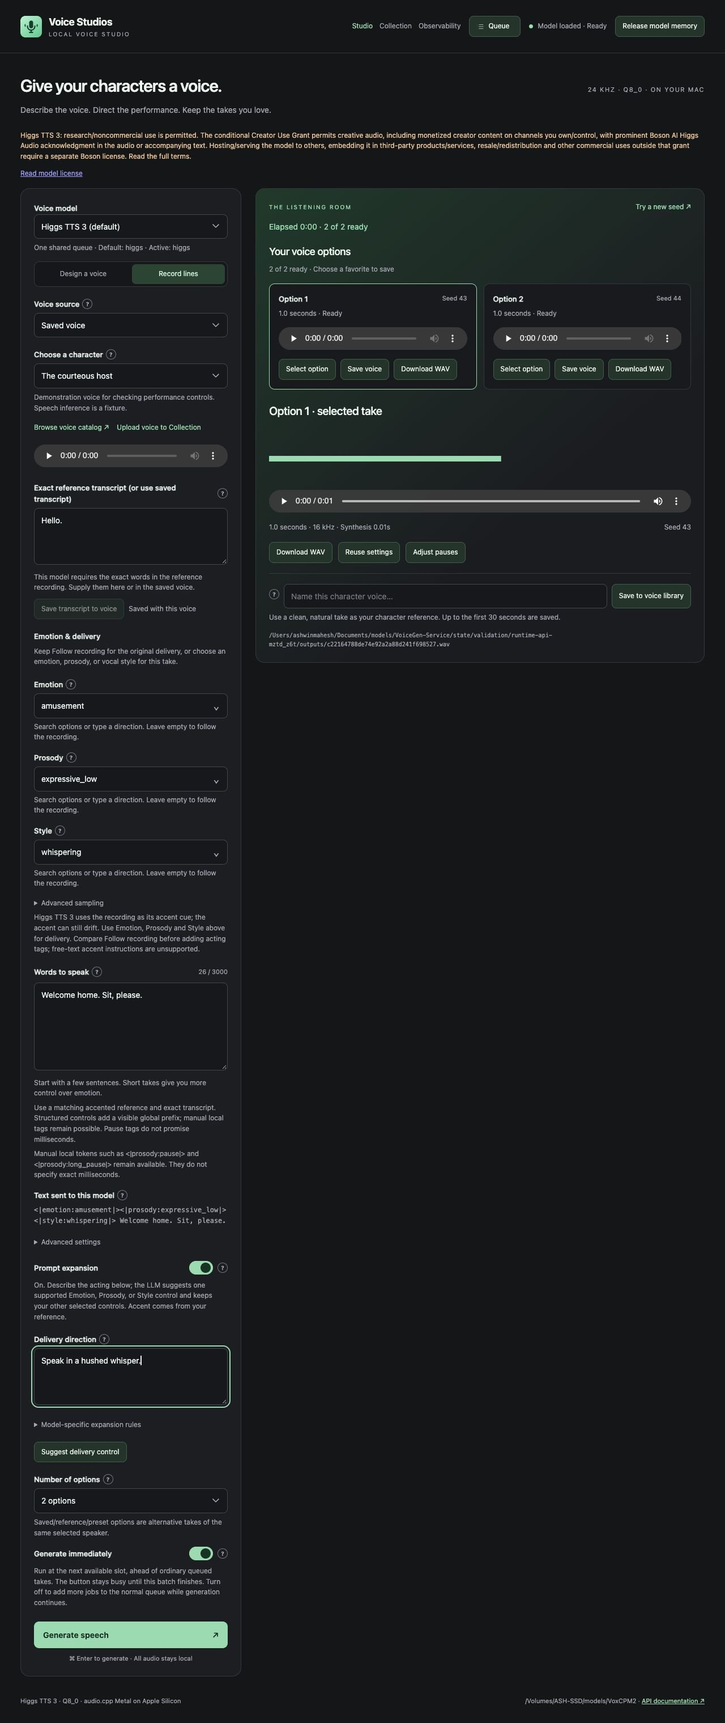
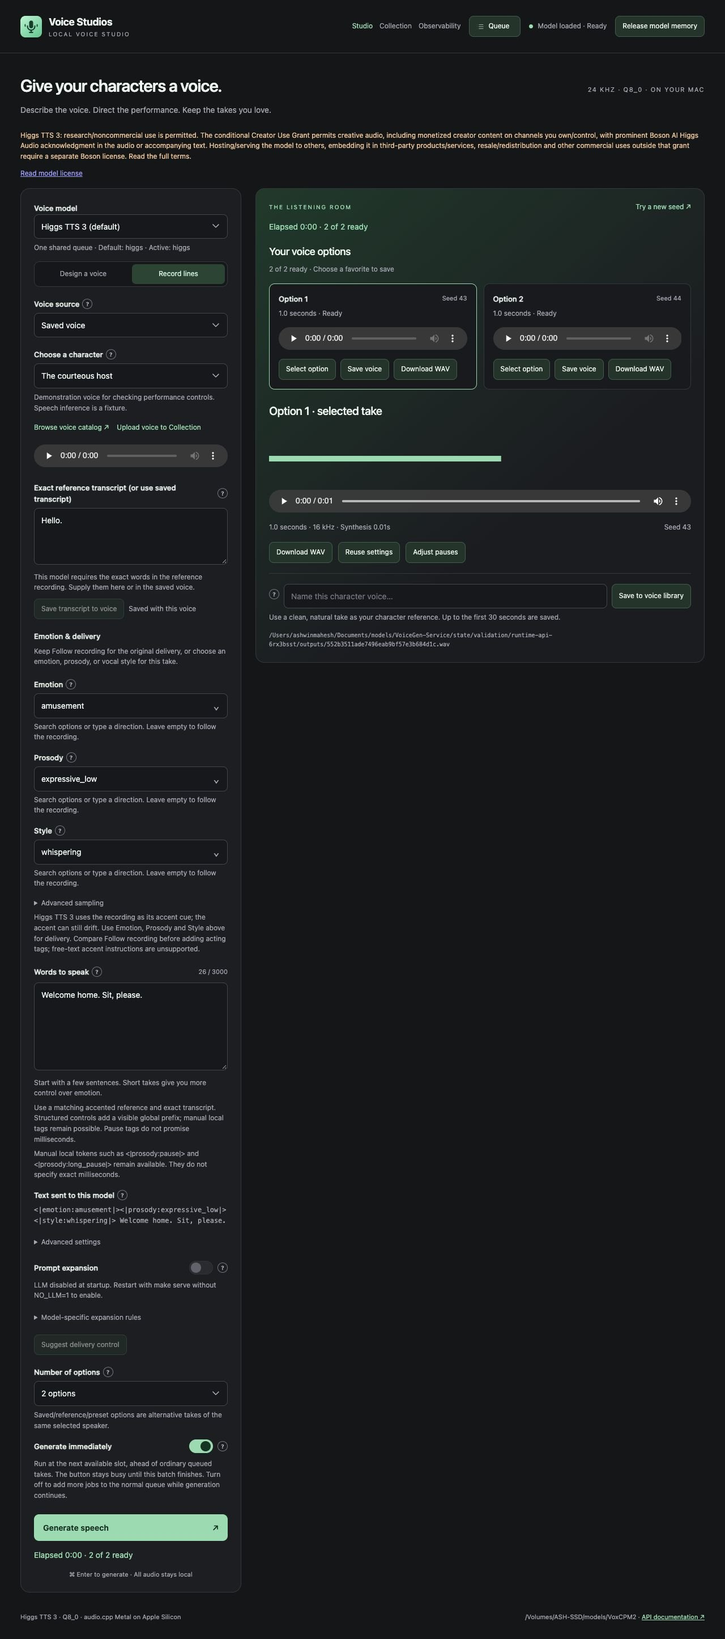
Keep elapsed generation time visible and attached to the selected recording

Changed region(s): [[0.0312, 0.0, 0.9688, 0.9651], [0.875, 0.0, 0.9688, 0.0311], [0.6562, 0.0, 0.6875, 0.0311]]

diff --git a/ui/index.html b/ui/index.html
@@ -123,8 +123,8 @@ input:disabled::placeholder,textarea:disabled::placeholder{color:#aeb5c0;opacity
 <div class="field"><label for="candidate-count">Number of options</label><select id="candidate-count"><option value="1">1 option</option><option value="2" selected>2 options</option><option value="3">3 options</option><option value="4">4 options</option><option value="5">5 options</option></select><p class="hint" id="candidate-count-hint">Design distinct voices, compare, and save your favorite. Options generate one at a time.</p></div>
 <div class="field" id="candidate-variation-field"><label for="candidate-variation">Batch variation</label><select id="candidate-variation"><option value="auto">Distinct voice designs</option><option value="seed_only">Same prompt · different seeds</option></select><p class="hint" id="candidate-variation-hint"></p></div>
 <label class="expansion-switch immediate-switch" for="generate-immediately"><span>Generate immediately</span><input id="generate-immediately" type="checkbox" role="switch" checked aria-describedby="immediate-hint"></label><p class="hint" id="immediate-hint">Run at the next available slot, ahead of ordinary queued takes. The button stays busy until this batch finishes. Turn off to add more jobs to the normal queue while generation continues.</p>
-<button class="primary" id="generate" type="submit" aria-busy="false"><span id="generate-label">Generate speech</span><span id="generate-icon" aria-hidden="true">↗</span></button><p class="shortcut">⌘ Enter to generate · All audio stays local</p><p class="error" id="error" role="alert" hidden></p>
-</form><div><section class="panel output" aria-label="Generated audio"><div class="output-top"><span class="eyebrow">The listening room</span><button type="button" class="plain" id="new-seed">Try a new seed ↗</button></div><p id="elapsed" class="generation-elapsed" hidden></p><section id="candidate-results" hidden aria-labelledby="candidate-title"><h2 id="candidate-title">Your voice options</h2><p id="candidate-summary" class="hint" role="status"></p><div id="candidate-cards" class="candidate-grid"></div></section><div class="empty" id="empty"><div class="symbol" aria-hidden="true">▂▅▃▇▂▆▃</div><h2>Your next voice starts here.</h2><p>Generate a take, listen to the performance, then save the voice for your next scene.</p></div><div class="working" id="working" hidden><div class="spinner"></div><strong id="stage">Generating speech</strong><p>The first take also loads the model from the SSD.</p><a id="working-job-resources" href="/observability">View job charts &amp; logs ↗</a></div><div id="result" hidden><h2 id="result-title">Your latest take</h2><p class="hint" id="direction-summary" hidden></p><details id="result-expansion-details" class="expansion-details" hidden><summary>Expanded prompt for this take</summary><div class="expansion-content"></div></details><canvas id="waveform" aria-label="Waveform of generated speech" role="img"></canvas><audio id="player" controls preload="metadata"></audio><div class="result-meta"><span id="metrics"></span><span id="result-seed"></span></div><p class="notice" id="truncated" hidden>The audio reached its length limit. Try a shorter passage or raise the audio limit.</p><div class="result-tools"><a id="download" class="secondary" download>Download WAV</a><button type="button" class="secondary" id="reuse">Reuse settings</button><button type="button" class="secondary" id="adjust-pauses">Adjust pauses</button></div><div class="save-row"><label for="voice-name" class="sr-only">Name this voice</label><input id="voice-name" maxlength="100" placeholder="Name this character voice…"><button type="button" class="secondary" id="save-voice">Save to voice library</button></div><p class="hint" id="save-hint">Use a clean, natural take as your character reference. Up to the first 30 seconds are saved.</p><p id="path" class="path"></p></div></section></div></div>
+<button class="primary" id="generate" type="submit" aria-busy="false"><span id="generate-label">Generate speech</span><span id="generate-icon" aria-hidden="true">↗</span></button><p id="submission-elapsed" class="generation-elapsed" data-generation-elapsed role="timer" aria-live="off" hidden></p><p class="shortcut">⌘ Enter to generate · All audio stays local</p><p class="error" id="error" role="alert" hidden></p>
+</form><div><section class="panel output" aria-label="Generated audio"><div class="output-top"><span class="eyebrow">The listening room</span><button type="button" class="plain" id="new-seed">Try a new seed ↗</button></div><p id="elapsed" class="generation-elapsed" data-generation-elapsed role="timer" aria-live="off" hidden></p><section id="candidate-results" hidden aria-labelledby="candidate-title"><h2 id="candidate-title">Your voice options</h2><p id="candidate-summary" class="hint" role="status"></p><div id="candidate-cards" class="candidate-grid"></div></section><div class="empty" id="empty"><div class="symbol" aria-hidden="true">▂▅▃▇▂▆▃</div><h2>Your next voice starts here.</h2><p>Generate a take, listen to the performance, then save the voice for your next scene.</p></div><div class="working" id="working" hidden><div class="spinner"></div><strong id="stage">Generating speech</strong><p>The first take also loads the model from the SSD.</p><a id="working-job-resources" href="/observability">View job charts &amp; logs ↗</a></div><div id="result" hidden><h2 id="result-title">Your latest take</h2><p class="hint" id="direction-summary" hidden></p><details id="result-expansion-details" class="expansion-details" hidden><summary>Expanded prompt for this take</summary><div class="expansion-content"></div></details><canvas id="waveform" aria-label="Waveform of generated speech" role="img"></canvas><audio id="player" controls preload="metadata"></audio><div class="result-meta"><span id="metrics"></span><span id="result-seed"></span></div><p class="notice" id="truncated" hidden>The audio reached its length limit. Try a shorter passage or raise the audio limit.</p><div class="result-tools"><a id="download" class="secondary" download>Download WAV</a><button type="button" class="secondary" id="reuse">Reuse settings</button><button type="button" class="secondary" id="adjust-pauses">Adjust pauses</button></div><div class="save-row"><label for="voice-name" class="sr-only">Name this voice</label><input id="voice-name" maxlength="100" placeholder="Name this character voice…"><button type="button" class="secondary" id="save-voice">Save to voice library</button></div><p class="hint" id="save-hint">Use a clean, natural take as your character reference. Up to the first 30 seconds are saved.</p><p id="path" class="path"></p></div></section></div></div>
 <section class="panel library" id="voice-catalog"><div class="section-top collection-toolbar"><div class="collection-heading"><h2>Your collection</h2><div class="tabs" role="tablist" aria-label="Collection"><button type="button" role="tab" data-collection="voices" aria-selected="true">Voice library</button><button type="button" role="tab" data-collection="history" aria-selected="false">History</button></div></div><button type="button" class="primary collection-upload" id="upload-voice"><svg viewBox="0 0 24 24" fill="none" stroke="currentColor" stroke-width="1.8" stroke-linecap="round" stroke-linejoin="round" aria-hidden="true"><path d="M12 15V3m-4 4 4-4 4 4M4 14v5a2 2 0 0 0 2 2h12a2 2 0 0 0 2-2v-5"/></svg>Upload voice</button></div><label class="sr-only" for="search">Search your collection</label><input class="search" id="search" type="search" placeholder="Search voice names, descriptions, or tags…"><div class="collection-options"><label for="show-deleted"><input id="show-deleted" type="checkbox">Show deleted</label><p class="hint" id="deleted-collection-hint" hidden>Deleted items are kept on disk so existing jobs and recordings still work. Restore an item to return it to Collection.</p></div><div class="library-filters" id="voice-filters" hidden><div><label for="tag-filter">Filter by tag</label><select id="tag-filter"><option value="">All tags</option></select></div><div><label for="voice-sort">Sort voices</label><select id="voice-sort"><option value="newest">Newest first</option><option value="updated">Recently edited</option><option value="name">Name A–Z</option></select></div></div><div class="field" style="margin:0 0 12px"><label for="page-size">Results per page</label><select id="page-size"><option>12</option><option selected>24</option><option>48</option><option>100</option></select></div><p class="catalog-count" id="catalog-count" hidden></p><p class="voice-notice" id="voice-notice" role="status" hidden></p><div id="cards" class="cards"></div><div class="pagination" id="voice-pagination" hidden><button type="button" class="secondary" id="voice-prev">Previous</button><span class="tiny" id="voice-page-label"></span><button type="button" class="secondary" id="voice-next">Next</button></div><p class="hint" id="collection-empty">Your generated takes will appear here.</p></section></main>
 <dialog id="queue-dialog" class="voice-editor queue-dialog" aria-labelledby="queue-title"><div class="section-top"><h2 id="queue-title">Generation queue</h2><div class="dialog-actions" style="margin:0"><button type="button" class="secondary" id="queue-pause">Pause queue</button><button type="button" class="secondary" id="queue-clear">Clear pending</button><button type="button" class="secondary" id="close-queue" aria-label="Close queue">Close</button></div></div><p id="queue-service-dialog-notice" class="notice" role="status" hidden></p><p class="hint">One shared queue switches models between complete batches. Active generation is never interrupted; removing waiting jobs keeps completed audio and History.</p><div class="two"><div><label for="queue-status">Show</label><select id="queue-status"><option value="pending">Pending and running</option><option value="error">Failed</option><option value="done">Completed</option><option value="all">All entries</option></select></div><div><label for="queue-size">Entries per page</label><select id="queue-size"><option>12</option><option selected>24</option><option>100</option></select></div></div><p id="queue-count" class="hint" role="status"></p><p class="hint" id="queue-reorder-hint">Drag a handle or use its up/down arrow keys to reorder; Run Now runs first after active work finishes.</p><div id="queue-entries" class="cards"></div><div class="pagination"><button type="button" class="secondary" id="queue-prev">Previous</button><span id="queue-page" class="tiny"></span><button type="button" class="secondary" id="queue-next">Next</button></div><p class="error" id="queue-error" role="alert" hidden></p></dialog>
 <dialog id="expansion-preview" class="voice-editor" aria-labelledby="expansion-title"><h2 id="expansion-title">Expanded voice guidance</h2><p class="hint">Review the suggestion before applying. The LLM does not receive dialogue, transcripts or reference audio. Accent/identity and delivery still require listening.</p><h3 id="expansion-original-title">Original guidance</h3><pre id="expansion-original" class="hint" style="white-space:pre-wrap;overflow-wrap:anywhere"></pre><h3>Suggested guidance / controls</h3><pre id="expansion-updates" class="hint" style="white-space:pre-wrap;overflow-wrap:anywhere"></pre><p id="expansion-notice" class="hint" role="status" hidden></p><p id="expansion-model" class="hint"></p><div class="dialog-actions"><button type="button" class="secondary" id="cancel-expansion">Keep original</button><button type="button" class="primary" id="apply-expansion">Apply guidance</button></div></dialog>

diff --git a/ui/app.js b/ui/app.js
@@ -39,9 +39,11 @@ function clearExpansion(){appliedExpansion=null;pendingExpansion=null;updateProm
 let generationClock=null;
 function elapsedTime(milliseconds){const seconds=Math.max(0,Math.floor(milliseconds/1000)),minutes=Math.floor(seconds/60);return minutes>=60?`${Math.floor(minutes/60)}:${String(minutes%60).padStart(2,'0')}:${String(seconds%60).padStart(2,'0')}`:`${minutes}:${String(seconds%60).padStart(2,'0')}`}
 function updateElapsed(){
- const target=$('elapsed');target.hidden=!generationClock;if(!generationClock)return;
- target.textContent=`Elapsed ${elapsedTime((generationClock.end??Date.now())-generationClock.start)} · ${generationClock.label}`;
- target.title='Time since this request was accepted, including time waiting in the queue.';
+ for(const target of document.querySelectorAll('[data-generation-elapsed]')){
+  target.hidden=!generationClock;if(!generationClock)continue;
+  target.textContent=`Elapsed ${elapsedTime((generationClock.end??Date.now())-generationClock.start)} · ${generationClock.label}`;
+  target.title='Time since this request was accepted, including time waiting in the queue.';
+ }
 }
 function generationTiming(identity,created,label,completed=null){
  const timestamp=Date.parse(created),end=Date.parse(completed);
@@ -53,6 +55,7 @@ function batchTiming(batch){
  generationTiming(batch.id,batch.created_at,running?`${running.stage} · option ${running.candidate_index} of ${batch.candidate_count}`:finished?`${batch.done_count} of ${batch.candidate_count} ready`:'Waiting in queue',finished?(completed||new Date().toISOString()):null);
 }
 setInterval(updateElapsed,1000);
+document.addEventListener('visibilitychange',updateElapsed);window.addEventListener('focus',updateElapsed);
 function updatePromptExpansion(){
  if(!caps)return;
  const available=modelChoiceReady&&!!caps.limits.prompt_expansion?.enabled,enabled=available&&$('prompt-expansion-enabled').checked,backend=caps.backend;
@@ -583,7 +586,7 @@ async function watch(identity){
   monitoredImmediate=['queued','running'].includes(job.status)&&job.generate_immediately;controls();
   $('stage').textContent=job.stage;
   $('working-job-resources').href='/observability?job='+encodeURIComponent(identity);
-  generationTiming(identity,job.created_at,job.stage,job.completed_at);
+  generationTiming(identity,job.created_at,job.stage,!['queued','running'].includes(job.status)?job.completed_at||new Date().toISOString():null);
   if(job.status==='done'){localStorage.removeItem(storageKey+'-job');showResult(job.result);await refresh();announce('Speech ready');break}
   if(job.status==='error'||job.status==='deleted'){localStorage.removeItem(storageKey+'-job');throw Error(job.error||'This pending take was removed.');}
   await new Promise(resolve=>setTimeout(resolve,1500));
@@ -631,7 +634,7 @@ async function health(){
   $('status').dataset.offline=!online;
   $('status').textContent=state.status==='error'?(state.last_error||'Setup incomplete'):state.busy?state.status:state.model_loaded?'Model loaded · Ready':caps?.limits.model_residency==='per job subprocess'?'Ready · Loads per take':'Ready · Loads on first take';
   busy=state.busy;
-  if(queueWritable&&state.active_job&&!watching&&!browsePage&&!localStorage.getItem(storageKey+'-candidates'))watch(state.active_job);
+  if(queueWritable&&state.active_job&&!watching&&!generationClock&&!browsePage&&!localStorage.getItem(storageKey+'-candidates'))watch(state.active_job);
   if(queueWritable){
    try{await refreshQueue()}catch(exc){queueWritable=false;queueNotices({queue_storage:{status:'unavailable',message:exc.message}})}
   }else{

diff --git a/AGENTS.md b/AGENTS.md
@@ -57,7 +57,7 @@ Higgs's searchable comboboxes accept draft prose, but generation settings remain
 
 Generate immediately is a default-on accessible switch. While monitoring an immediate request/batch with that switch on, keep Generate disabled with a loading label and aria-busy until all options reach a terminal state; guard form/keyboard submission too. Infer the immutable request priority from returned jobs on reload. Turning the switch off permits additional normal queued submissions without mutating admitted jobs. Verify with held single/batch fixtures, failure/reload and normal-queue behavior, rather than only instant fake completions.
 
-Keep the elapsed timer visible for both batches and single-job monitoring; use persisted admission/completion times so reloads retain elapsed duration, including queue wait. Catalog refresh must preserve in-progress reference transcripts. Save transcript edits through voice PATCH before UI generation and offer an explicit save action; API ref_text overrides never mutate the voice. Auto-save a complete generated line as the voice transcript only when the actual recording is at most 30 seconds and not marked truncated. Vox Auto accepts editable directions, while combined/continuation do not. Higgs/Fish use their native delivery controls instead of disabled prose fields; never imply arbitrary accent text is supported. Disabled inputs use a lighter grey fill and an actionable reason.
+Keep synchronized elapsed timers below Generate and in the Listening room for both batches and single-job monitoring. Tick every second while active, refresh on focus/visibility return, and use persisted admission/completion times so reloads retain elapsed duration, including queue wait. Continue across batch options and freeze at terminal states, including removed legacy jobs without a completion timestamp. Health polling must not replace an existing recording's timer with another active job after completion; explicit Monitor/new submission may select another recording. Keep timer announcements off so screen readers are not interrupted every second. Verify rolling values with held fixtures and stable values after completion. Catalog refresh must preserve in-progress reference transcripts. Save transcript edits through voice PATCH before UI generation and offer an explicit save action; API ref_text overrides never mutate the voice. Auto-save a complete generated line as the voice transcript only when the actual recording is at most 30 seconds and not marked truncated. Vox Auto accepts editable directions, while combined/continuation do not. Higgs/Fish use their native delivery controls instead of disabled prose fields; never imply arbitrary accent text is supported. Disabled inputs use a lighter grey fill and an actionable reason.
 
 Higgs UI/recommended max_tokens is 2000, while the API default remains 1000 and explicit/frozen limits stay unchanged. Publish all three values in capabilities. Its namespaced text_chunk_size (80–1024, default 1024) maps to the native CLI; keep other backends unaffected. Omitted/null chunk settings must retain pre-field single/batch fingerprints. Missing EOC stays a failure: expose only the recognized diagnostic from a bounded log tail, remove temporary output, and never enable incomplete generation or auto-increase a budget. The failed-card higher-limit action prepares one new take for review; Retry preserves the frozen job.
 

diff --git a/QUICKSTART.md b/QUICKSTART.md
@@ -71,7 +71,7 @@ To create a new voice from a description, choose a set-up VoxCPM2, Qwen3-TTS, or
 4. **Choose the performance settings.** Higgs shows **Emotion**, **Prosody**, and **Style** above the dialogue. It takes its accent from the recording; free-text accent directions are unsupported. Vox Auto allows new text directions and switches to flexible conditioning when used. Enter an **Emotion & delivery** direction to enable its expansion preview. With no new directions and an exact transcript, Auto follows the recording instead. Combined and Continue performance keep direction fields disabled. Disabled fields have a lighter grey background, with the reason and a supported alternative in their helper text. Hover over a grey **?** icon for an explanation, focus it with the keyboard, or tap it on a phone. Expand **Advanced settings** for additional options.
 5. **Try prompt expansion if available.** With the switch on, select **Preview expanded guidance**, review it, and apply it or keep your original. Higgs instead offers **Suggest delivery control**: enter a short acting direction such as “quietly amused” or “more expressive intonation” to suggest one native Emotion, Prosody, or Style setting. The preview shows your written direction. If nothing changes, Apply is disabled and the preview explains how to proceed. For supported batches of different voice designs, the LLM can refine each option automatically.
 6. **Choose 1–5 options** and select **Generate speech**. The default is two. With Higgs or another recorded voice, these are alternative takes of the same speaker. Supported voice-design modes can explore different descriptions.
-7. **Listen and save.** The listening room shows elapsed time, including waiting, and keeps the completed duration after a reload. Download a take or choose **Save voice** to reuse it for more lines. Complete takes of at most 30 seconds automatically supply their spoken line as the saved transcript, without performance tags. Longer or potentially cut-off takes need the exact words in the saved excerpt.
+7. **Listen and save.** Elapsed time appears below Generate and in the Listening room. It ticks every second, including time waiting, continues through all options in a batch, and stops at the final duration. Reloads retain that timing. Download a take or choose **Save voice** to reuse it for more lines. Complete takes of at most 30 seconds automatically supply their spoken line as the saved transcript, without performance tags. Longer or potentially cut-off takes need the exact words in the saved excerpt.
 
 For Higgs, new UI settings use a **2,000-token Audio limit**. Existing saved settings keep their value; use **Advanced settings → Apply recommended defaults** to update them. If one option reports “reached max_tokens before EOC,” its audio did not finish. Keep the successful option and choose **Use higher audio limit** on the failed card to prepare one replacement. Retry alone keeps the old limit. For longer passages, a smaller **Higgs text chunk size**, such as 400 characters, can reduce the budget needed per chunk; it can also change delivery.
 

diff --git a/skill/local-voice-studio/SKILL.md b/skill/local-voice-studio/SKILL.md
@@ -39,7 +39,7 @@ Upload reference audio with `POST /api/references` (multipart file and optional 
 
 Collection opens Voice library first, with History to its right. The brand icon/title/subtitle link back to Studio. UI Delete requires a confirmation popup; Cancel/Escape keeps the entry. `DELETE /api/voices/{id}` or `/api/artifacts/{id}` removes it from the active collection; POST the same path plus `/restore` to restore. List deleted only with `deleted=true` on voices/history/voice-tags; the UI's Show deleted filter provides Restore. Responses contain id, kind (voices/outputs), deleted and changed; repeats return changed:false. Audio, metadata, job results and queued references stay intact. This is reversible catalog deletion, not disk cleanup or URL revocation. Separate private markers in the configured data folder persist the state; never purge them or audio as routine cleanup. The queue API has no collection lifecycle routes.
 
-The studio preserves transcript edits through refreshes and offers Save transcript to voice; Generate saves a saved voice's edited transcript before admission. API ref_text is only an override: PATCH the voice transcript to persist it. Saving a complete generated take up to 30 actual seconds defaults its transcript to the spoken line without Fish/Higgs tags. Longer or potentially cut-off takes need an exact excerpt transcript rather than the full line. The listening room shows elapsed admission-to-completion time, including waiting, across batches and reloads.
+The studio preserves transcript edits through refreshes and offers Save transcript to voice; Generate saves a saved voice's edited transcript before admission. API ref_text is only an override: PATCH the voice transcript to persist it. Saving a complete generated take up to 30 actual seconds defaults its transcript to the spoken line without Fish/Higgs tags. Longer or potentially cut-off takes need an exact excerpt transcript rather than the full line. Synchronized timers below Generate and in the Listening room tick every second from admission, including waiting and all batch options, then freeze at completion. Reloads retain timing; returning to the page catches up to the current elapsed time.
 
 Vox Auto leaves accent/emotion directions editable and resolves to flexible conditioning when they are used; Combined/Continue performance disable them with an explanation. Higgs shows native Emotion/Prosody/Style instead of unsupported free-text direction fields. Its reference supplies the accent cue, with no accent-fidelity guarantee. Disabled fields have a lighter grey fill; never bypass capability checks merely to enable a control.
 

diff --git a/README.md b/README.md
@@ -18,7 +18,7 @@ Screenshots use benign demonstration records and fake inference; displayed timin
 
 Use **Design a voice** to create a character, or **Record lines** to reuse one. Record lines has a **Voice source** menu for saved voices, uploaded reference audio, and built-in speakers when available. Browse voice catalog opens your Collection in a new tab so your recording form stays open.
 
-An elapsed timer follows each request through waiting and generation. Reference transcripts stay with saved voices; you can save an edit directly or let Generate save it before submitting. Higgs has searchable Emotion, Prosody, and Style inputs. Choose an option, or type a custom direction and preview a supported control with the local LLM. Accent comes from the reference recording.
+An elapsed timer below Generate and in the Listening room updates every second through waiting and generation, then keeps the final duration. Reference transcripts stay with saved voices; you can save an edit directly or let Generate save it before submitting. Higgs has searchable Emotion, Prosody, and Style inputs. Choose an option, or type a custom direction and preview a supported control with the local LLM. Accent comes from the reference recording.
 
 Higgs starts new UI settings with a 2,000-token audio limit. If one option cannot finish within its limit, the others stay available; the failed card can prepare a single replacement with a higher limit. Advanced settings also offer native text chunk size for longer passages.
 
